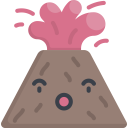
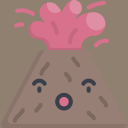
feat(roumanwu): switch to official base URL selection via info.urls

diff --git a/sources/zh.roumanwu/src/lib.rs b/sources/zh.roumanwu/src/lib.rs
@@ -24,7 +24,7 @@ use detail::parse_manga_detail;
 use home::parse_home_layout;
 use image::{unscramble_image, unscramble_image_url};
 use listing::parse_manga_listing;
-use source_url::{BASE_URL, USER_AGENT, get_base_url, html_get_string};
+use source_url::{USER_AGENT, get_base_url, html_get_string};
 use utils::{site_page, urlencode};
 
 pub struct Roumanwu;
@@ -142,16 +142,7 @@ impl DeepLinkHandler for Roumanwu {
 
 impl DynamicSettings for Roumanwu {
     fn get_dynamic_settings(&self) -> Result<Vec<aidoku::Setting>> {
-        let current_url = get_base_url();
         Ok(vec![
-            aidoku::TextSetting {
-                key: "base_url".into(),
-                title: "源地址".into(),
-                placeholder: Some(BASE_URL.into()),
-                default: Some(current_url.into()),
-                ..Default::default()
-            }
-            .into(),
             aidoku::LinkSetting {
                 key: "address_link".into(),
                 title: "地址发布：https://rdz3.xyz/dizhi".into(),

diff --git a/sources/zh.roumanwu/src/source_url.rs b/sources/zh.roumanwu/src/source_url.rs
@@ -15,9 +15,17 @@ pub(crate) const USER_AGENT: &str = "Mozilla/5.0 (Windows NT 10.0; Win64; x64) A
 	(KHTML, like Gecko) Chrome/120.0.0.0 Safari/537.36";
 
 pub(crate) fn get_base_url() -> String {
-    match defaults_get::<String>("base_url") {
+    // Official base-URL mechanism: with `config.allowsBaseUrlSelect` in
+    // source.json, the app stores the user's pick from `info.urls` under
+    // the `url` defaults key. Fall back to the pre-v15 `base_url` dynamic
+    // setting (kept so users who customized it keep their override), then
+    // to the constant.
+    match defaults_get::<String>("url") {
         Some(url) if !url.trim().is_empty() => url,
-        _ => String::from(BASE_URL),
+        _ => match defaults_get::<String>("base_url") {
+            Some(url) if !url.trim().is_empty() => url,
+            _ => String::from(BASE_URL),
+        },
     }
 }
 
